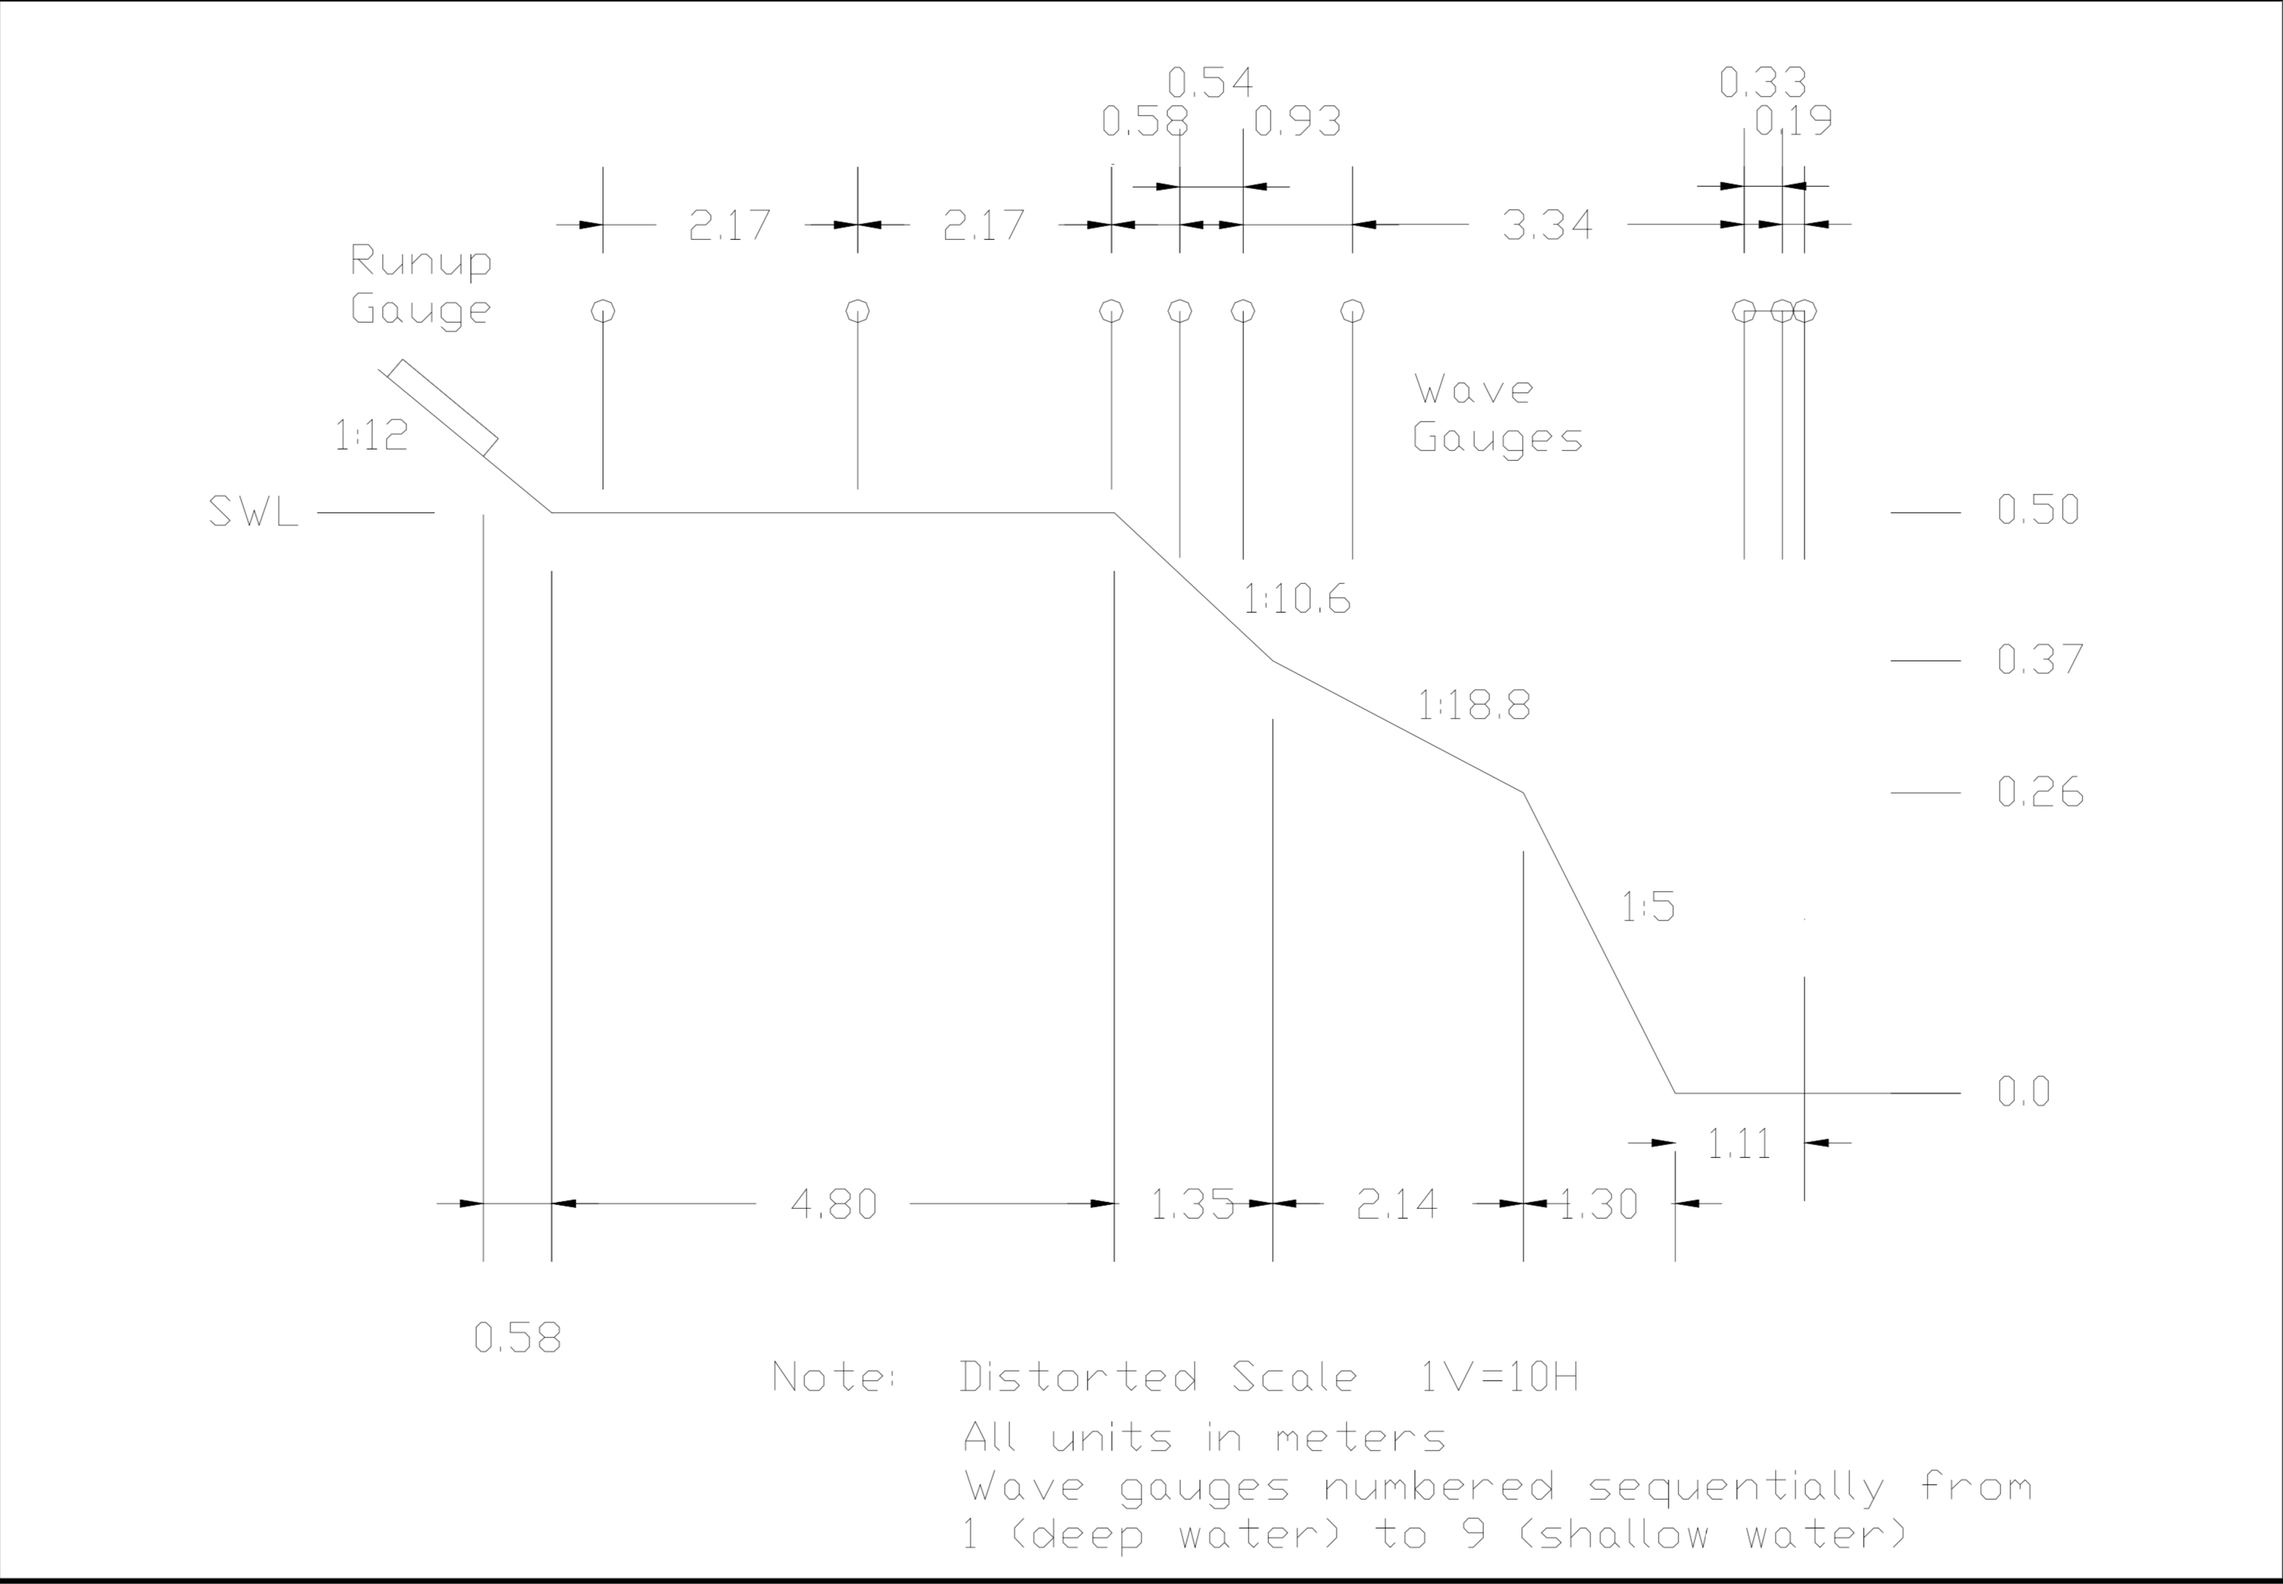
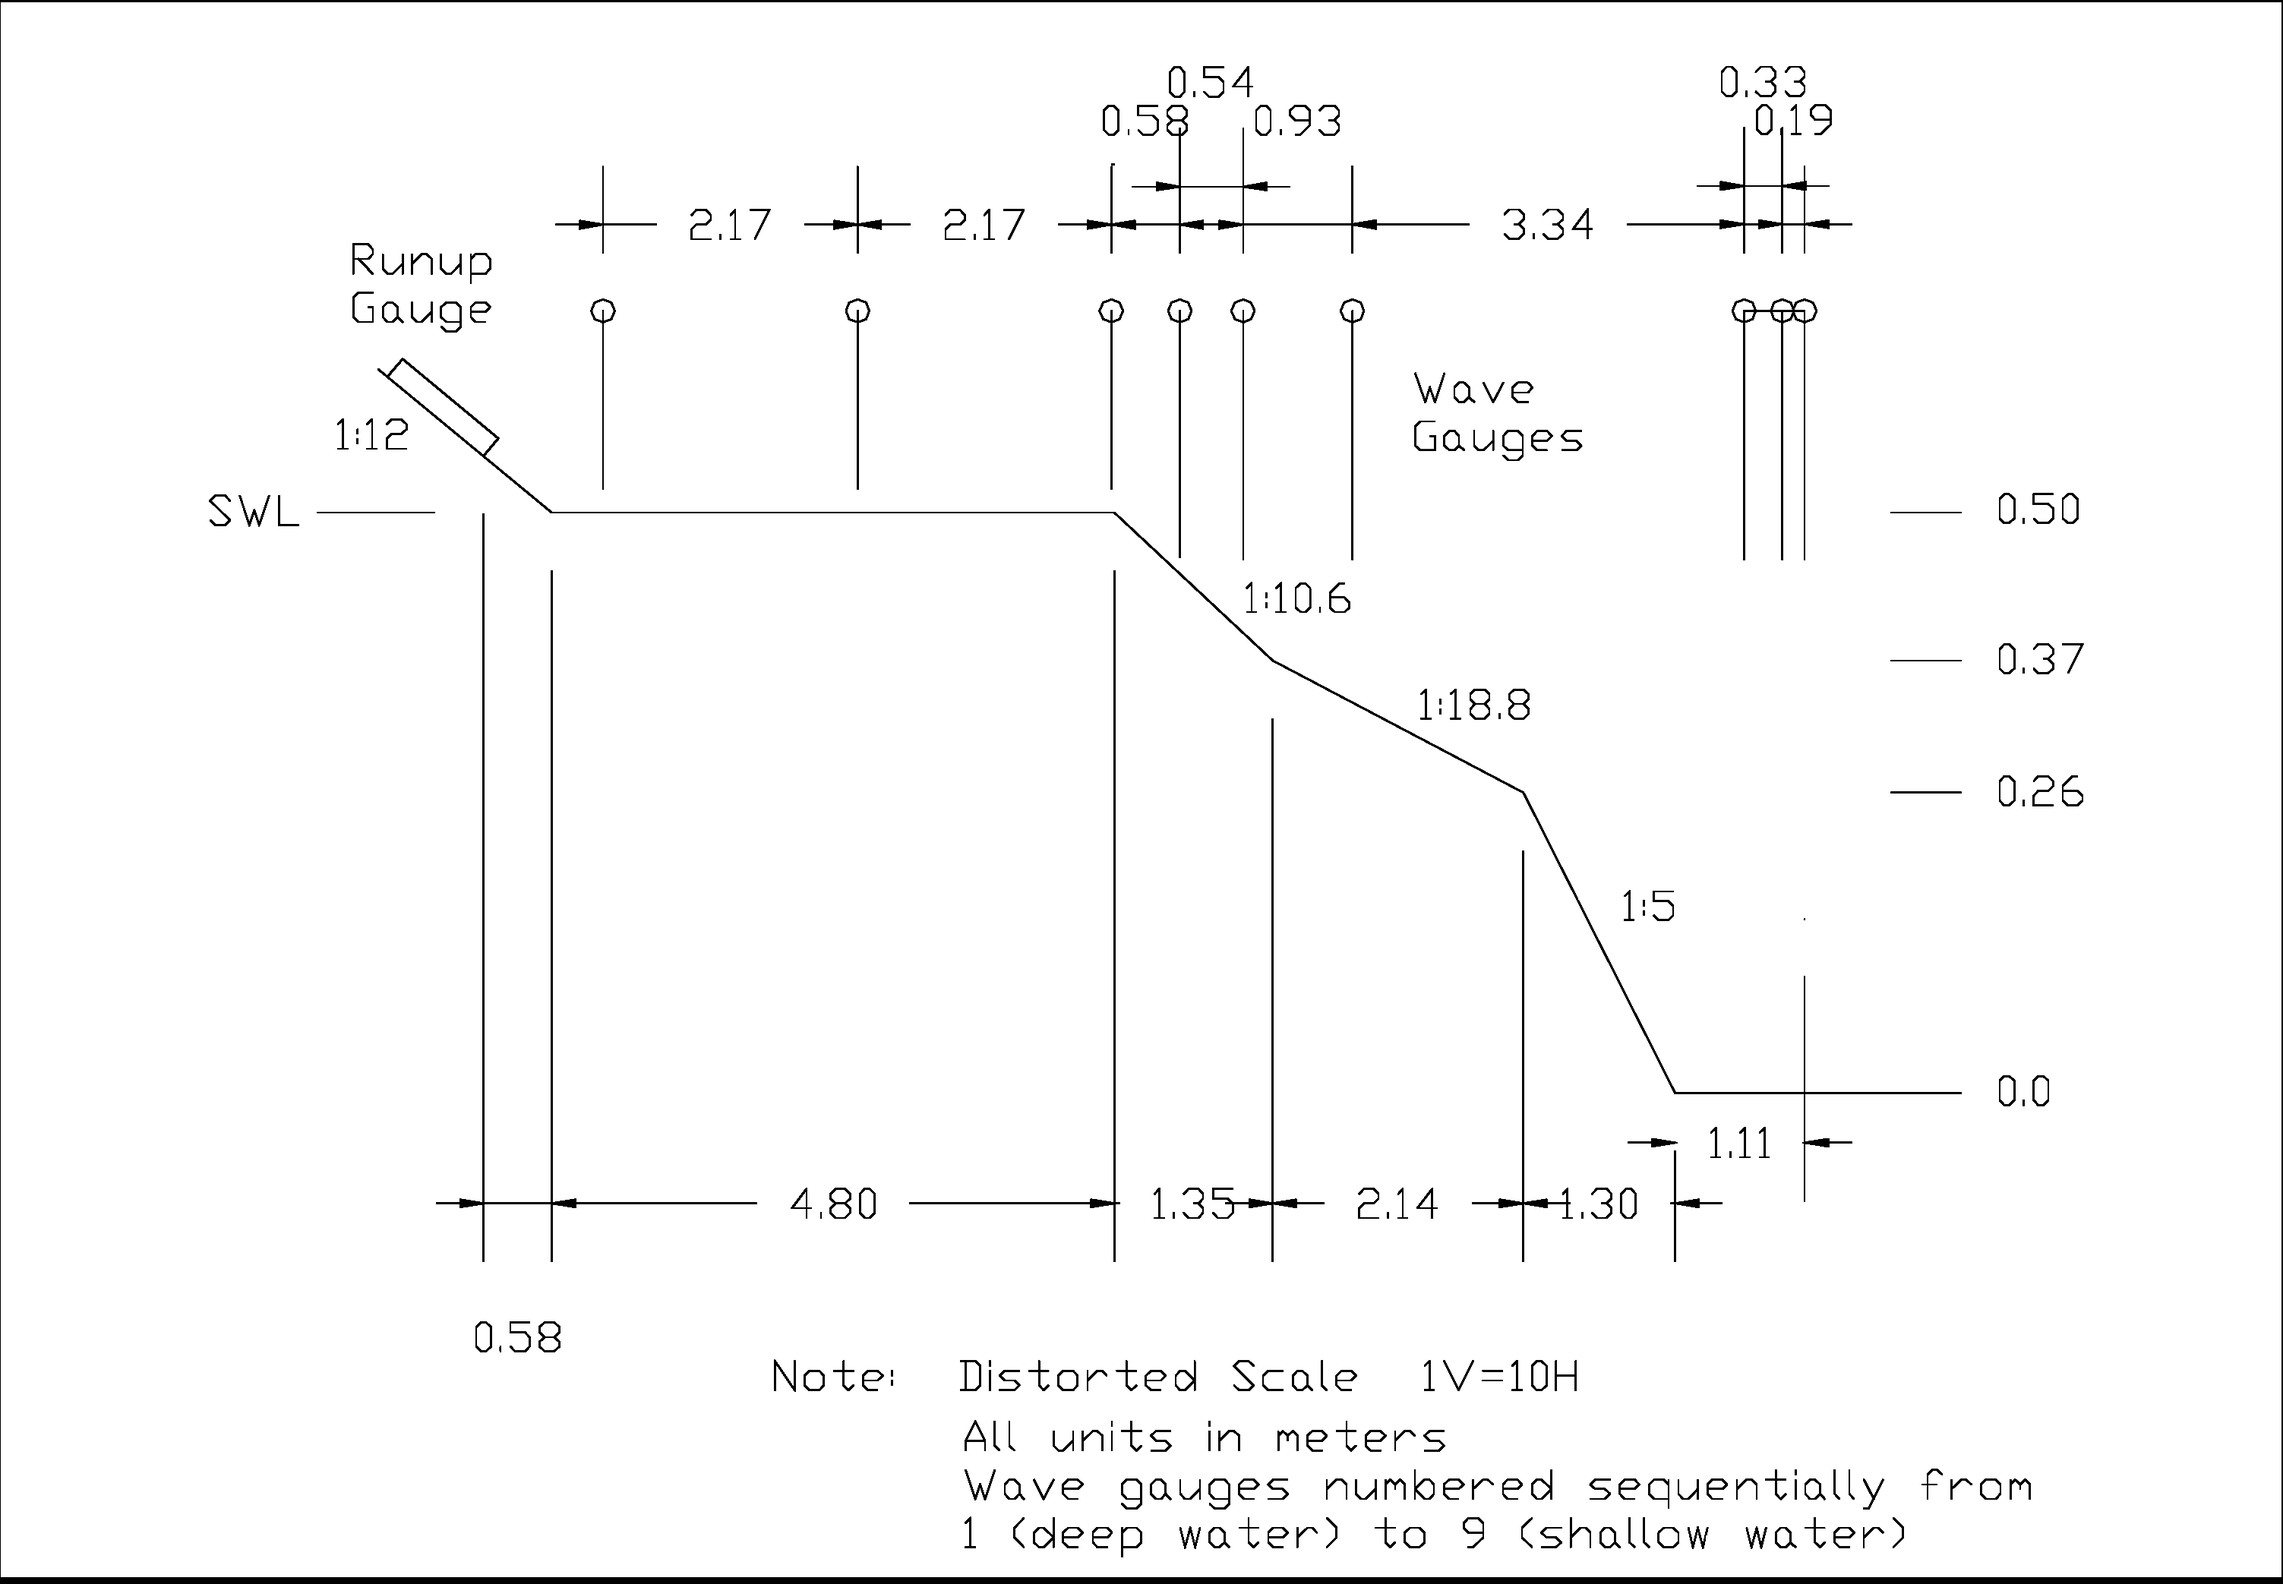
Increase Contrast on Demirbilek instrument images

diff --git a/Kajian-Pustaka.tex b/Kajian-Pustaka.tex
@@ -23,7 +23,6 @@
 \subsection{Neural Network}
     Selanjutnya data tersebut dimasukan kedalam suatu sistem untuk belajar. Pada TA ini, sistem yang digunakan untuk pembelajaran adalah \emph{Neural Network}.
     Model \emph{neural network} sederhana di definisikan oleh McCulloch-Pitts \cite{McCulloch1943}. Dimana persamaan memiliki $M$ himpunan \emph{Input} ($I$) (\emph{input neuron}), dan satu \emph{output} ($y$), dengan $y$ merupakan bagian dari $\{0,1\}$. Atau dengan kata lain, $y$ adalah fungsi yang hanya memiliki \emph{output} $0$ dan $1$.
-
     \begin{equation}
         y = f(z)
     \end{equation}
@@ -34,47 +33,47 @@
     \end{equation}
 
     Di TA ini, \emph{output} yang akan dihasilkan tidak terbatas pada $0$ dan $1$. Sehingga di \emph{neuron output}, fungsi aktivasi yang digunakan adalah fungsi aktivasi linear. Model \emph{Neural Network}nya dapat direpresentasikan sebagai berikut:
-    
-    \def\layersep{5cm}
+    \begin{figure}[H]
+        \def\layersep{4cm}
+        \begin{tikzpicture}[shorten >=1pt,->,draw=black!50, node distance=\layersep]
+            \tikzstyle{every pin edge}=[<-,shorten <=1pt]
+            \tikzstyle{neuron}=[circle,fill=black!25,minimum size=17pt,inner sep=0pt]
+            \tikzstyle{input neuron}=[neuron, fill=green!50];
+            \tikzstyle{output neuron}=[neuron, fill=red!50];
+            \tikzstyle{hidden neuron}=[neuron, fill=blue!50];
+            \tikzstyle{annot} = [text width=4em, text centered]
 
-    \begin{tikzpicture}[shorten >=1pt,->,draw=black!50, node distance=\layersep]
-        \tikzstyle{every pin edge}=[<-,shorten <=1pt]
-        \tikzstyle{neuron}=[circle,fill=black!25,minimum size=17pt,inner sep=0pt]
-        \tikzstyle{input neuron}=[neuron, fill=green!50];
-        \tikzstyle{output neuron}=[neuron, fill=red!50];
-        \tikzstyle{hidden neuron}=[neuron, fill=blue!50];
-        \tikzstyle{annot} = [text width=4em, text centered]
+            % Draw the input layer nodes
+            \foreach \name / \y in {1,...,2}
+            % This is the same as writing \foreach \name / \y in {1/1,2/2,3/3,4/4}
+                \node[input neuron, pin=left:Input \#\y] (I-\name) at (0,-\y) {};
 
-        % Draw the input layer nodes
-        \foreach \name / \y in {1,...,2}
-        % This is the same as writing \foreach \name / \y in {1/1,2/2,3/3,4/4}
-            \node[input neuron, pin=left:Input \#\y] (I-\name) at (0,-\y) {};
+            % Draw the hidden layer nodes
+            \foreach \name / \y in {1,...,2}
+                \path[yshift=0.0cm]{}
+                    node[hidden neuron] (H-\name) at (\layersep,-\y cm) {};
 
-        % Draw the hidden layer nodes
-        \foreach \name / \y in {1,...,2}
-            \path[yshift=0.0cm]{}
-                node[hidden neuron] (H-\name) at (\layersep,-\y cm) {};
+            % Draw the output layer node
+            \node[output neuron,pin={[pin edge={->}]right:Output}, right of=H-1] (O) {};
 
-        % Draw the output layer node
-        \node[output neuron,pin={[pin edge={->}]right:Output}, right of=H-1] (O) {};
+            % Connect every node in the input layer with every node in the
+            % hidden layer.
+            \foreach \source in {1,...,2}
+                \foreach \dest in {1,...,2}
+                    \path (I-\source) edge node[midway, right] {$W_{input}$} (H-\dest);
 
-        % Connect every node in the input layer with every node in the
-        % hidden layer.
-        \foreach \source in {1,...,2}
-            \foreach \dest in {1,...,2}
-                \path (I-\source) edge node[midway, right] {$W_{input}$} (H-\dest);
+            % Connect every node in the hidden layer with the output layer
+            \path (H-1) edge node[midway, right] {$W_{output}$} (O);
+            \path (H-2) edge node[midway, right] {$W_{output}$} (O);
 
-        % Connect every node in the hidden layer with the output layer
-        \path (H-1) edge node[midway, right] {$W_{output}$} (O);
-        \path (H-2) edge node[midway, right] {$W_{output}$} (O);
-
-        % Annotate the layers
-        \node[annot,above of=H-1, node distance=1cm] (hl) {Hidden layer};
-        \node[annot,left of=hl] {Input layer};
-        \node[annot,right of=hl] {Output layer};
-        \label{neuralNetworkRepresentation}
-    \end{tikzpicture}
-
+            % Annotate the layers
+            \node[annot,above of=H-1, node distance=1cm] (hl) {Hidden layer};
+            \node[annot,left of=hl] {Input layer};
+            \node[annot,right of=hl] {Output layer};
+            \label{neuralNetworkRepresentation}
+        \end{tikzpicture}
+        \caption{Model \emph{Neural Network} dengan 1 \emph{Hidden Layer}.}
+    \end{figure}
     Dimana $W$ adalah peubah yang menyatakan berat. Masing masing \emph{input} akan \emph{didot productkan} dengan $W_{input}$ \emph{hidden layer} tertentu untuk menghasilkan nilai pada \emph{hidden layer neuron} tersebut. Selanjutnya, nilai hasil aktivasi di \emph{hidden layer}, akan di \emph{dot productkan} dengan $W_{output}$. Untuk selanjutnya menjadi \emph{output}, yakni prediksi dari runup gelombang.
 
 \subsubsection{Fungsi Aktivasi}

diff --git a/Metodologi.tex b/Metodologi.tex
@@ -13,7 +13,7 @@ Eksperimen dibagi menjadi 3 bagian. Eksperimen pertama dilakukan hanya menggunak
   \begin{center}
     \includegraphics[scale=0.2]{./images/instrumen_eksperimen.png}
   \end{center}
-  \caption{}
+  \caption{Instrumen eksperimen yang digunakan oleh Demirbilek et al \cite{DemirbilekReport}.}
 \end{figure}
 \FloatBarrier
 
